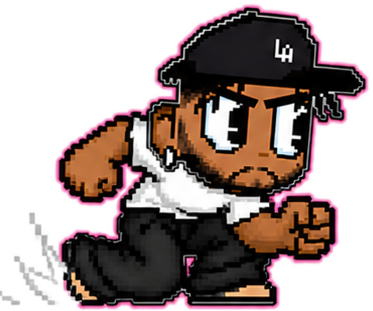
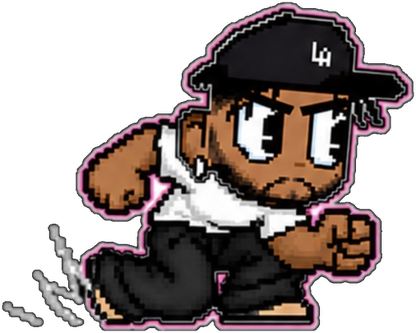
Landing-hold super armor, physics-driven jump animation, jump art scale fix
- P.landHold: after jump/air/upper states touch down, freeze in the landing
  pose for ~1s with super armor (damage still applies via hurtPlayer, but
  state-interrupt/knockback/knockdown is skipped) instead of snapping
  straight to idle.
- Jump animation frame selection is now driven by real P.y/P.vy physics
  instead of elapsed air time, so BamBam no longer crouches mid-air before
  he's actually near the ground.
- harness.js scene() cleanup extended to reset landHold/jump/air/upper/y/vy
  between scenarios, fixing cross-scene state leakage.
- BamBamJump/frame2.png and frame3.png rescaled: bbox-height matching left
  them at inconsistent apparent character scale (frame2 ~12% too small,
  frame3 ~18% too big versus frame0/frame1), visible as a size mismatch in
  the packed atlas. Rescaled using head-width (a pose-invariant feature) as
  the reference instead of overall bbox height, which bbox height doesn't
  reliably track across differently-posed source photos.

diff --git a/src/game.html b/src/game.html
@@ -812,7 +812,7 @@ const P={};
 function reset(){
   Object.assign(P,{x:120,z:245,y:0,vy:0,face:1,hp:8,maxhp:8,freedom:0,maxFreedom:100,xp:0,level:1,bucks:500,
     state:'idle',st:0,step:0,buf:0,connected:false,hitDone:false,iframes:0,
-    dmgMul:1,dmgT:0,fireT:0,hitFlash:0,airT:0,deaths:0,gunMode:true,airPunch:false,
+    dmgMul:1,dmgT:0,fireT:0,hitFlash:0,airT:0,deaths:0,gunMode:true,airPunch:false,landHold:0,
     stepV:0,downT:0,knockV:0,weapon:null,grabE:null,grabbedBy:null,downed:false});
   U={spirit:0,hands:0,body:0,chin:0,hustle:0,flow:0,insight:0,boots:0,reach:0,knuck:0,hide:0,second:0,pockets:0}; burgerCost=25;
 
@@ -1674,11 +1674,13 @@ function slamDown(e){                                       // a thrown enemy la
 function hurtPlayer(dmg,fromX){
   if(P.iframes>0||OPT.inv||P.state==='caged'||P.state==='grabbed') return;   // caged/grabbed handle their own damage
   if(P.state==='grab' && P.grabE){ dropGrab(24); say(P.x,P.z-30,'BROKEN!','#ff2e88'); }   // hit mid-windup → the grab breaks, you eat it
+  const armored = P.landHold>0;                  // super armor while frozen in a landing pose — eats the hit, doesn't flinch
   const full=loseHeart(dmg);                     // HIDE thickens your skin; a heavy hit costs a full heart, a light one costs half
-  P.iframes=42; P.hitFlash=16; shake=4; hitstop=4; P.state='idle'; P.step=0; P.st=0; P.buf=0;
-  rumble(200,.95,.5,true);
-  P.face=fromX>P.x?1:-1; P.x-=Math.sign(fromX-P.x)*10;
+  P.hitFlash=16; shake=4; hitstop=4; rumble(200,.95,.5,true);
   puff(P.x,P.z,50,5,'#ff2e88'); blip(90,.08);
+  if(armored){ say(P.x,P.z-30,'ARMOR','#ffd23a'); return; }   // no iframes/state-interrupt/knockdown — the pose holds
+  P.iframes=42; P.state='idle'; P.step=0; P.st=0; P.buf=0;
+  P.face=fromX>P.x?1:-1; P.x-=Math.sign(fromX-P.x)*10;
 
   // a full-heart hit puts you on the pavement
   if(full){
@@ -1755,7 +1757,8 @@ function update(){
   if(pad&&pad.PAUSE) setPause(true);
 
   //---- PUNCH: mash to combo. player is LOCKED for the whole string.
-  if(P.state==='punch'){
+  if(P.landHold>0){ /* frozen in the landing pose — see the landHold countdown further down */ }
+  else if(P.state==='punch'){
     const s=cStep(); P.st++;
     if(P.st===s.su) P.stepV=P.face*s.step;          // he steps into it
     if(P.stepV){ P.x+=P.stepV; P.stepV*=0.72; if(Math.abs(P.stepV)<0.12) P.stepV=0; }
@@ -1906,7 +1909,14 @@ function update(){
     P.state='air'; P.airPunch=jKick?false:true; P.st=0; P.hitDone=false; P.vy=Math.min(P.vy,0.5); }
   if(P.y>0||P.vy>0){ P.airT++; P.y+=P.vy; P.vy-=(P.state==='air'?0.44:0.32);
     if(P.y<=0){ P.y=0;P.vy=0;
-      if(P.state==='air'||P.state==='upper'){shake=Math.max(shake,3); puff(P.x,P.z,6,7,'#6b6478'); rumble(220,.85,.4,true);} P.state='idle'; } }
+      // hold on the landing pose for a beat instead of snapping straight to idle — jump/air/upper
+      // all end on a dedicated "just touched down" frame (hero.jump.3, the punch/kick set's last
+      // frame, hero.uppercut.3) that reads wrong if it's skipped past instantly
+      if(P.state==='jump'||P.state==='air'||P.state==='upper'){
+        shake=Math.max(shake,3); puff(P.x,P.z,6,7,'#6b6478'); rumble(220,.85,.4,true); P.landHold=60;
+      } else P.state='idle';
+    } }
+  if(P.landHold>0 && P.y===0){ P.landHold--; if(P.landHold<=0) P.state='idle'; }   // runs even while y===0 skips the block above
 
   P.z=clamp(P.z,FLOOR_N,ROAD_TARGET+4);   // the whole block is walkable — sidewalk AND road, no curb line
   P.x=clamp(P.x, camLock!==null?camLock+16:8, camLock!==null?camLock+W-24:Infinity);
@@ -2912,14 +2922,21 @@ function drawPlayer(){
   let drawFace=P.face;   // normally P.face; overridden to +1 for the dedicated left-facing (un-mirrored) uppercut frame
   if(P.state==='walk') key='hero.walk.'+(Math.floor(t*.16)%4);
   if(P.state==='idle') key='hero.rot.east';
-  if(P.state==='jump') key='hero.jump.'+clamp(Math.floor(P.airT/9),0,3);   // 0 push-off, 1 rise, 2 peak, 3 fall/land
+  // driven off real height/velocity, not elapsed ticks — the old airT/9 formula reached the
+  // landing-crouch frame partway through the arc, well before he was actually near the ground
+  if(P.state==='jump'){
+    if(P.airT<3) key='hero.jump.0';            // push-off, just the launch instant
+    else if(P.vy>0) key='hero.jump.1';         // rising
+    else if(P.y>14) key='hero.jump.2';         // falling, still well off the ground
+    else key='hero.jump.3';                    // about to touch down — crouch only now
+  }
   if(P.state==='imagine') key= IDX['hero.swag.0'] ? 'hero.swag.'+(Math.floor(t*.4)%4) : 'hero.rot.east';
   if(P.state==='air') key= P.airPunch ? 'hero.punch.'+clamp(2+Math.floor(P.st/3),2,5)           // dive punch (reuses the punch set's extend frames)
                           : (IDX['hero.kick.0'] ? 'hero.kick.'+clamp(Math.floor(P.st/3),0,3)    // drop kick
                                                 : 'hero.jump.3');
   if(P.state==='upper'){
     if(IDX['hero.uppercut.0']){
-      const uf = (P.st<3?0:P.vy>1.0?1:P.vy>-2?2:3);   // crouch → rising fist → BAM → land
+      const uf = P.landHold>0 ? 3 : (P.st<3?0:P.vy>1.0?1:P.vy>-2?2:3);   // crouch → rising fist → BAM → land (landHold forces the true landing frame — vy=0 while frozen would otherwise land on the BAM index)
       if(uf===2 && P.face<0 && IDX['hero.uppercutL.2']){ key='hero.uppercutL.2'; drawFace=1; }  // face left: use the pre-drawn left BAM so the lettering isn't mirrored
       else key='hero.uppercut.'+uf;
     } else key='hero.jump.2';
@@ -3000,7 +3017,7 @@ function drawRemotePlayer(o, pos, idx){
   let key = 'hero.rot.east';
   switch(pos.state){
     case 'walk':  key='hero.walk.'+(Math.floor(t*0.16)%4); break;
-    case 'jump':  key='hero.jump.'+clamp(Math.floor(pos.y/16),0,3); break;
+    case 'jump':  key='hero.jump.'+clamp(3-Math.floor(pos.y/16),0,3); break;   // low near the ground (crouch), high mid-air (rising/tucked) — no vy synced, so push-off/landing share a frame
     case 'air':   key= IDX['hero.kick.0'] ? 'hero.kick.'+(pos.y>20?1:2) : 'hero.jump.3'; break;   // drop kick
     case 'upper': key= IDX['hero.uppercut.0'] ? 'hero.uppercut.'+(pos.y>24?1:pos.y>8?2:3) : 'hero.jump.2'; break;   // uppercut
     case 'imagine': key= IDX['hero.swag.0'] ? 'hero.swag.'+(Math.floor(t*0.4)%4) : 'hero.rot.east'; break;

diff --git a/src/harness.js b/src/harness.js
@@ -136,8 +136,8 @@ if(MISSING.length) console.log('ids requested but NOT in markup: '+[...new Set(M
 function scene(name, fn){
   // clear any grab/street residue a prior scene's sim may have left on the player, so scenes stay independent
   try{ const g=globalThis.__G();
-    if(['grab','grabbed','caged','wthrow','punch'].includes(g.P.state)) g.P.state='idle';
-    g.P.grabE=null; g.P.grabbedBy=null; g.P.cageB=null; g.P.weapon=null; }catch(e){}
+    if(['grab','grabbed','caged','wthrow','punch','jump','air','upper'].includes(g.P.state)) g.P.state='idle';
+    g.P.grabE=null; g.P.grabbedBy=null; g.P.cageB=null; g.P.weapon=null; g.P.landHold=0; g.P.y=0; g.P.vy=0; }catch(e){}
   try{ fn(); console.log('  ok    '+name); }
   catch(e){ console.log('  FAIL  '+name+'\n        '+e.constructor.name+': '+e.message+
     '\n        '+(e.stack||'').split('\n')[1].trim()); err=err||e; }